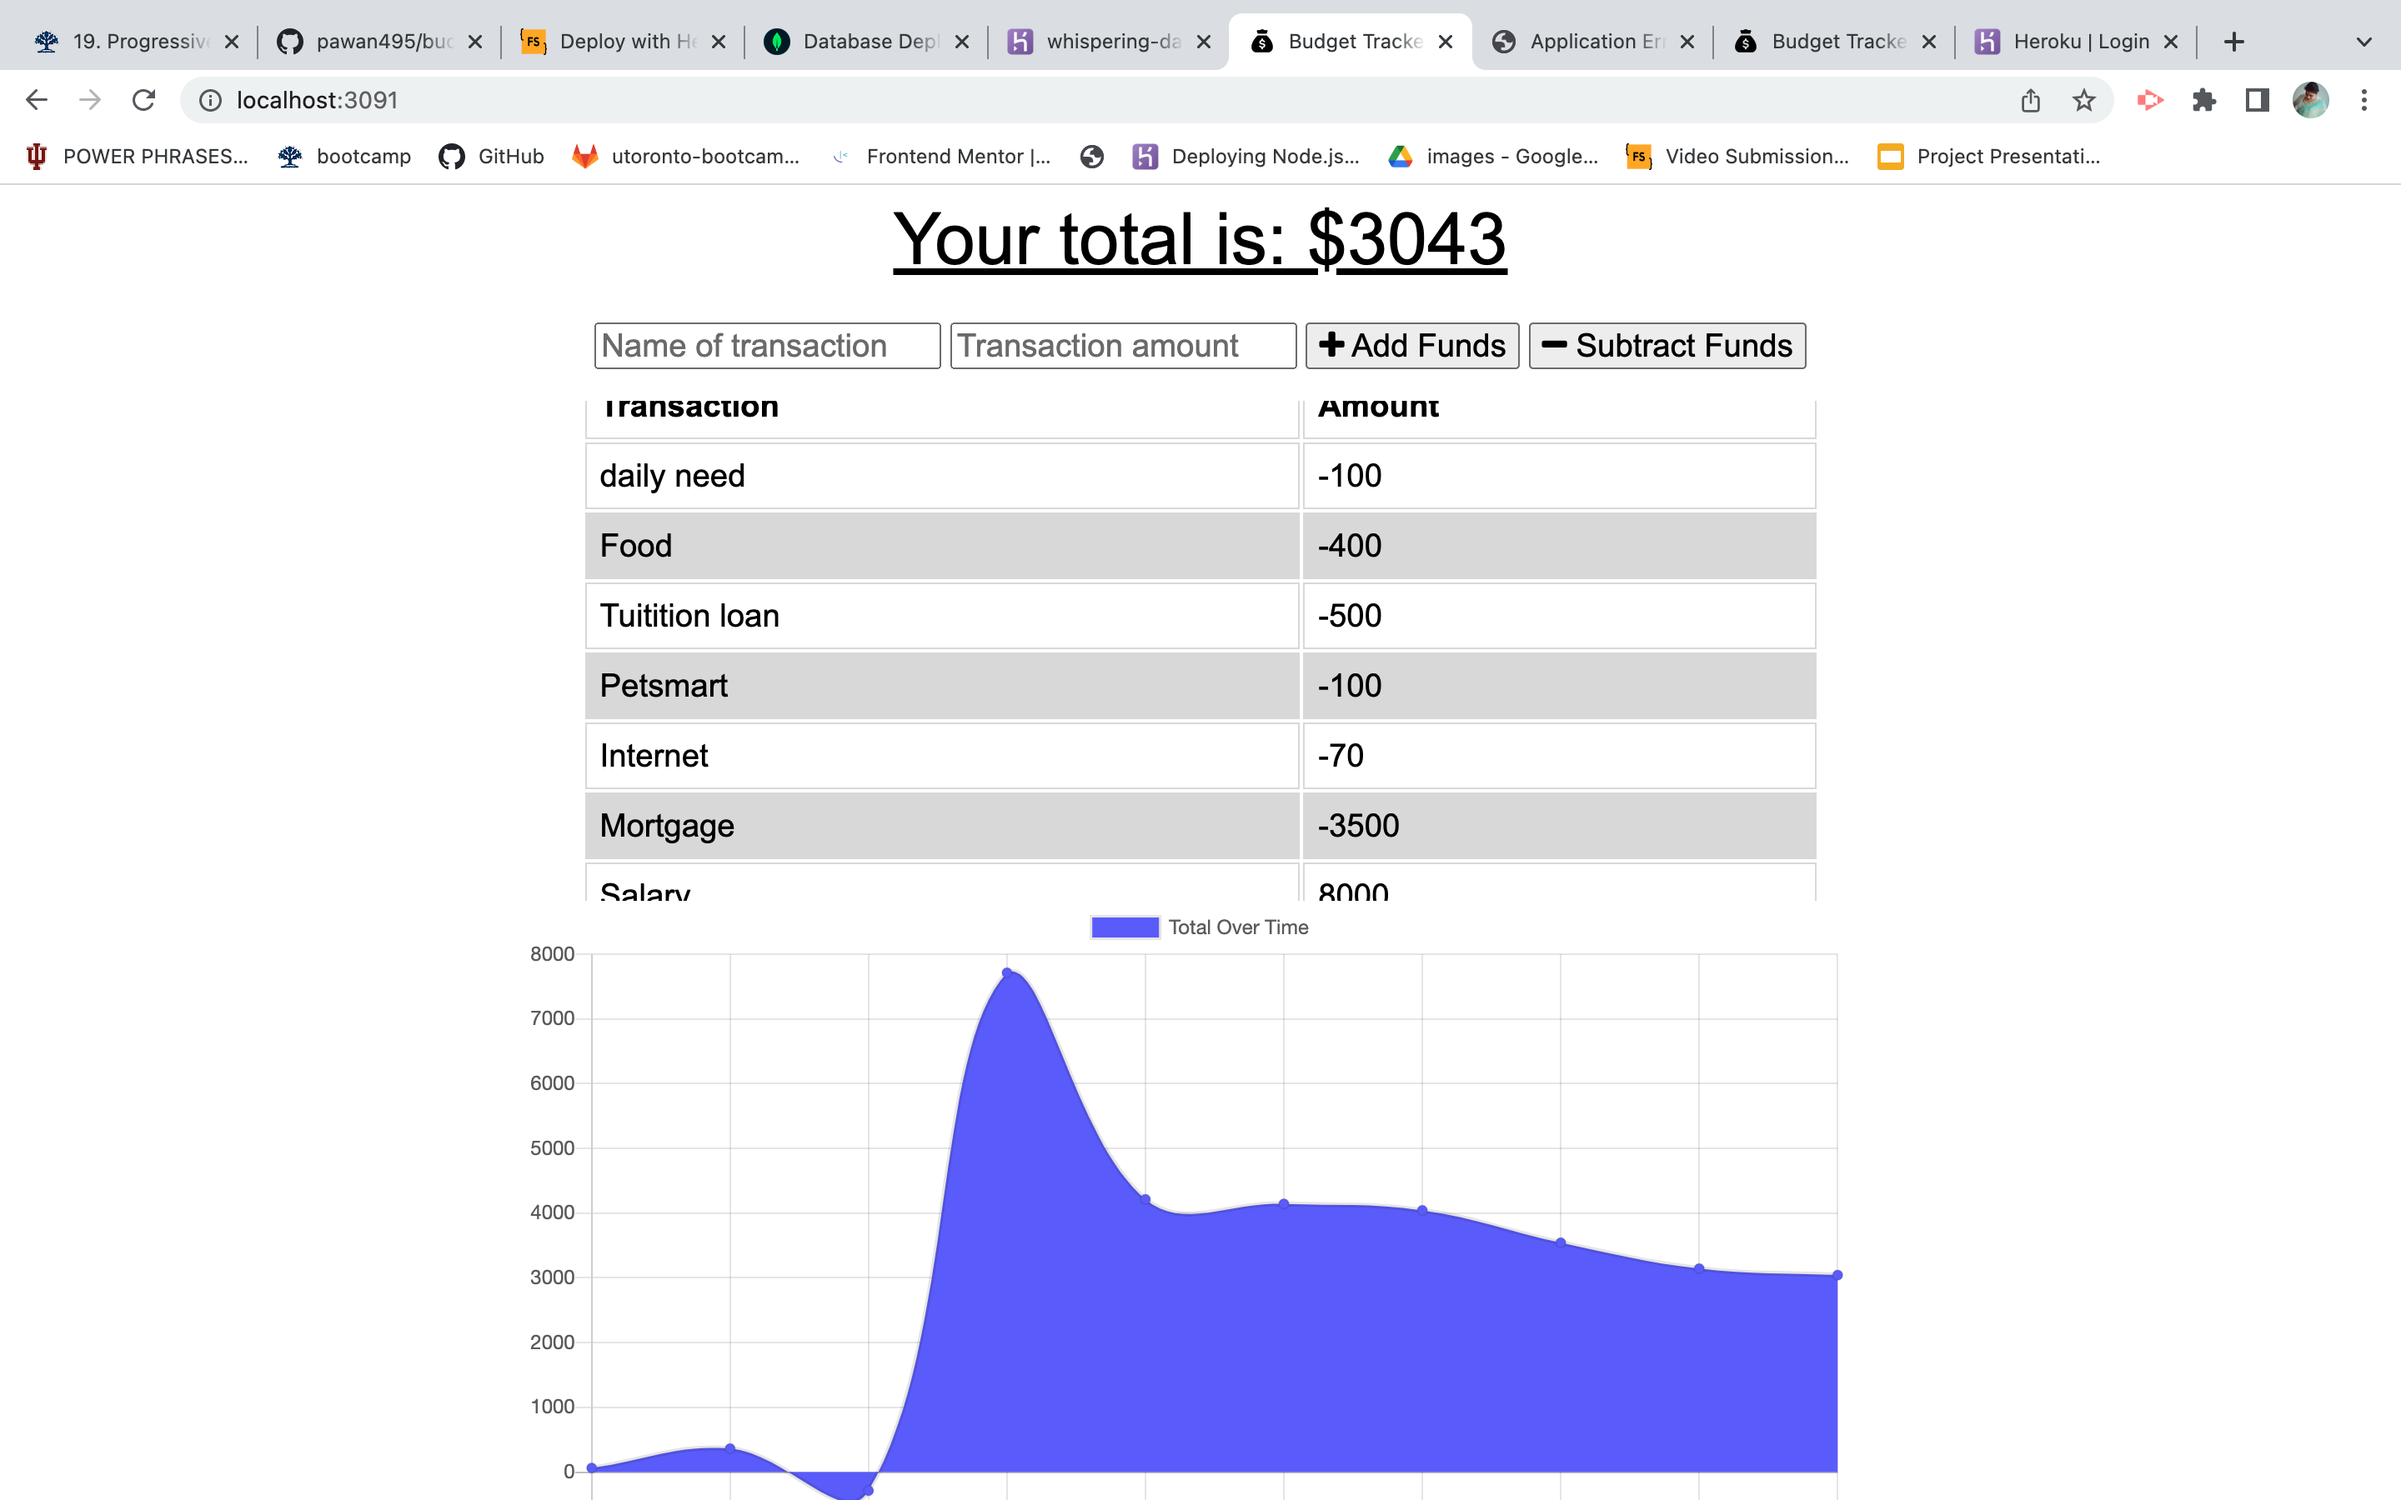
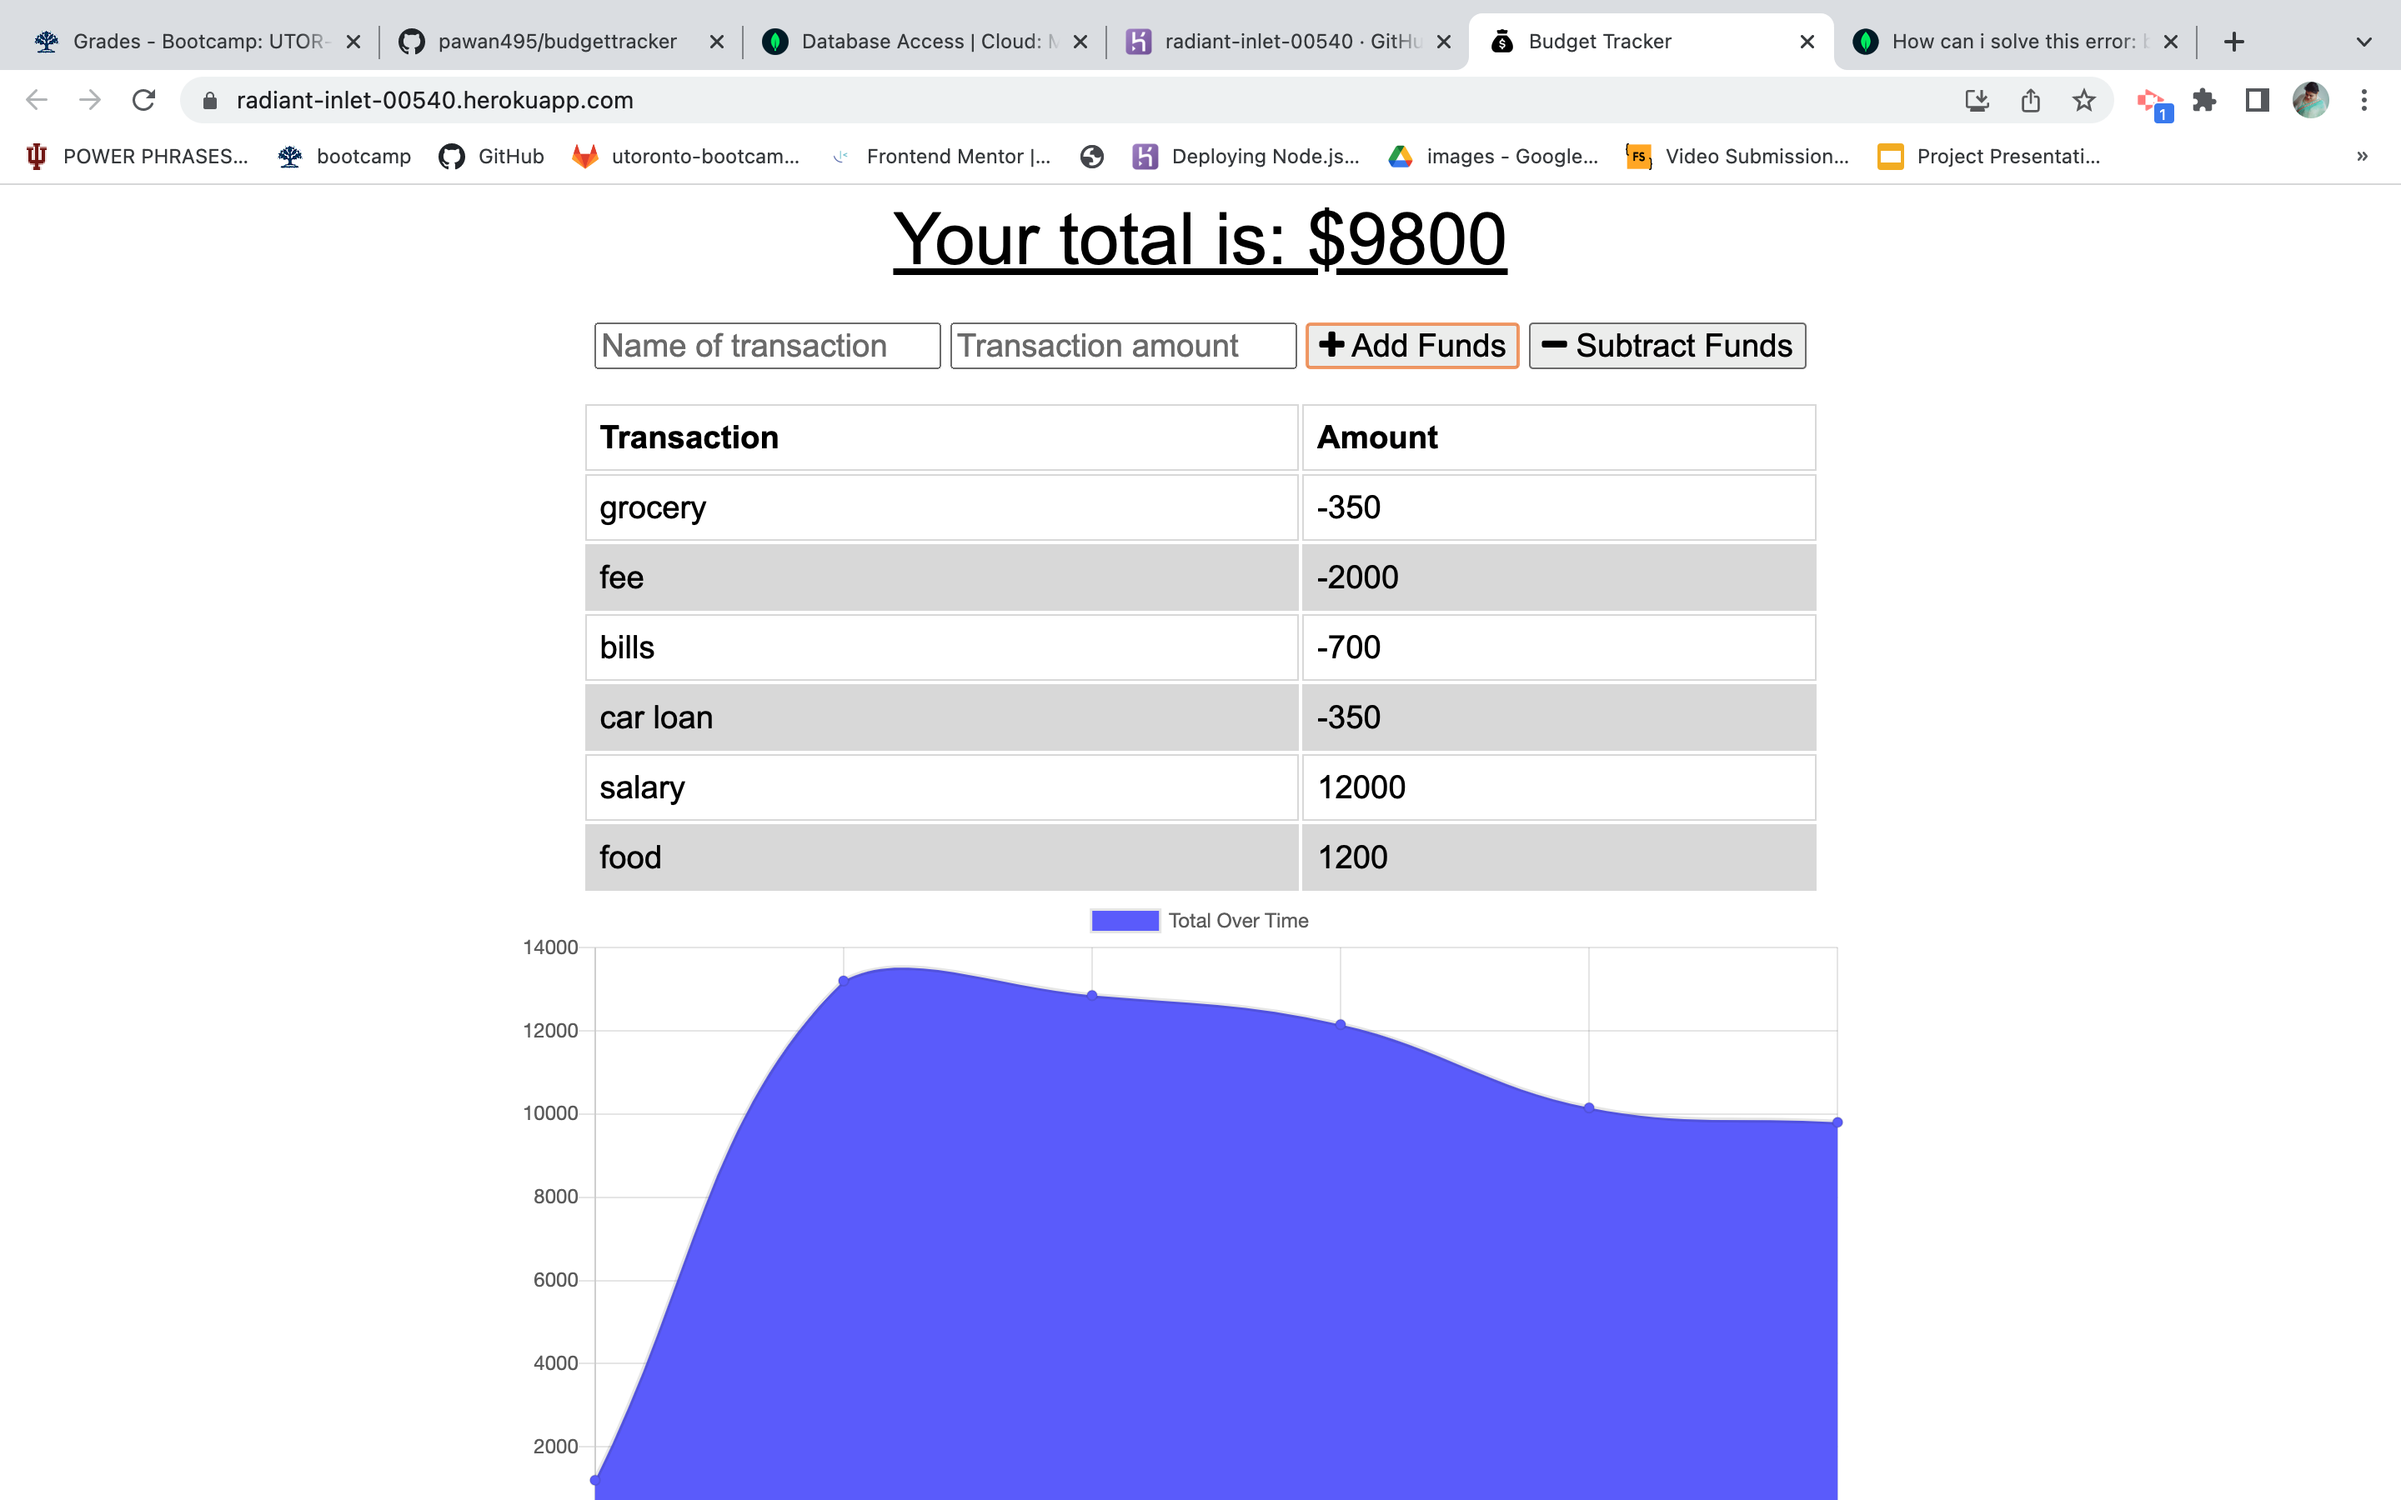
make it better

diff --git a/README.md b/README.md
@@ -11,7 +11,7 @@ If you have Install npm, then type npm start in your vs code and type localhost:
 ![Click here](pic1.png)
 
 ## Deployed to Heroku
-https://whispering-dawn-13280.herokuapp.com
+https://radiant-inlet-00540.herokuapp.com/
 
 
 
